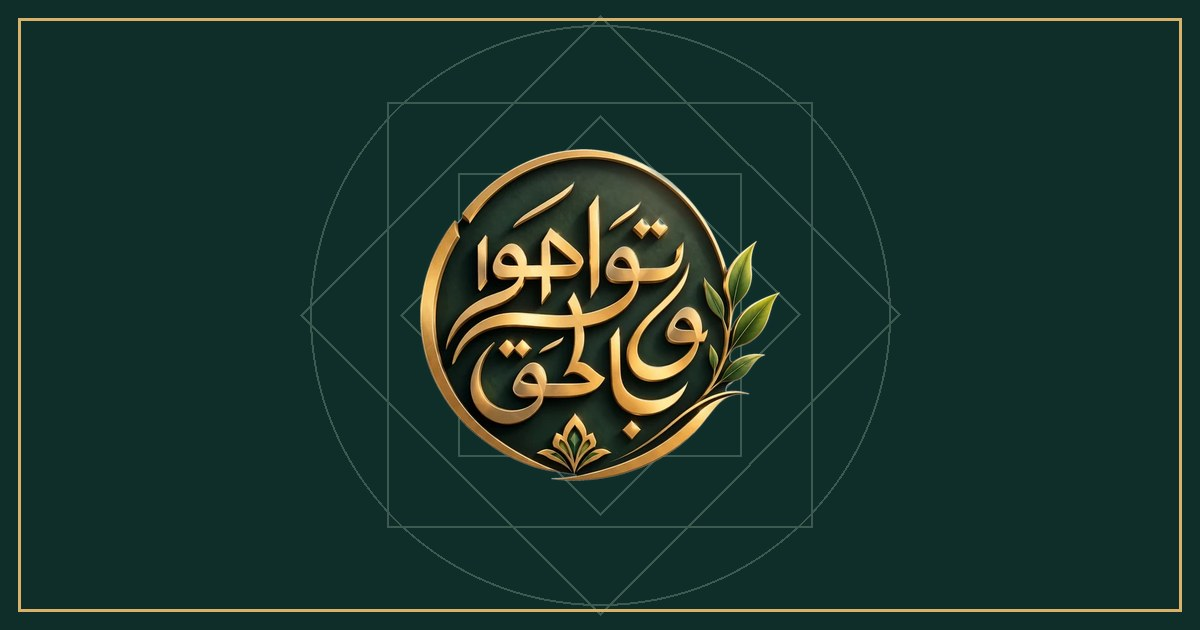
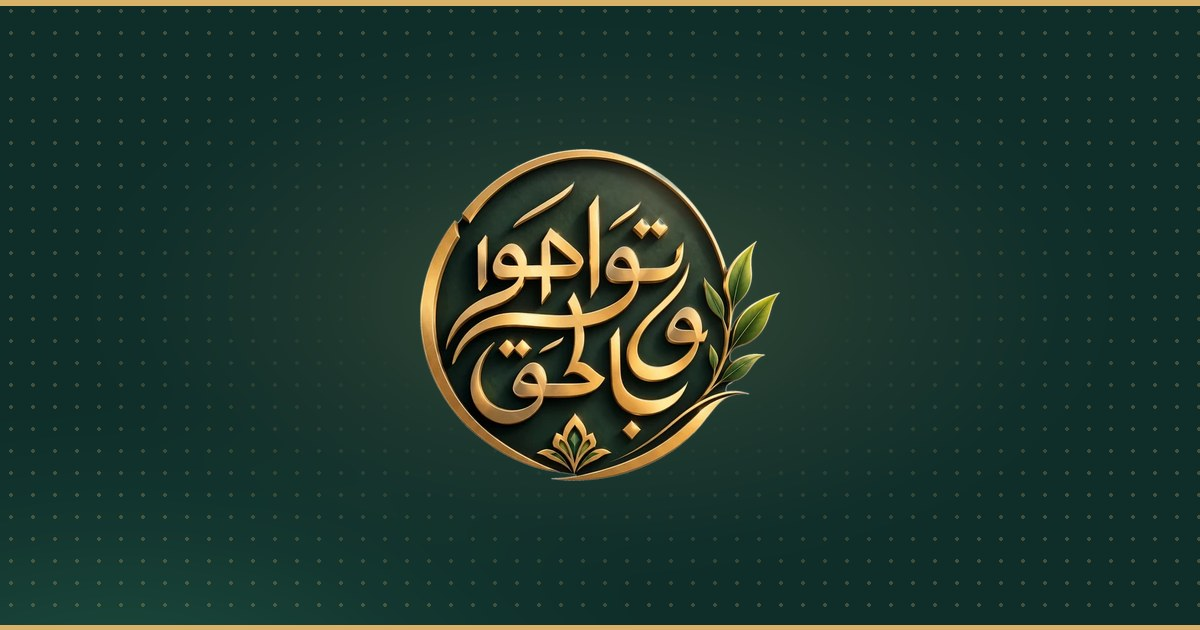
خلفية جديدة هادئة (إضاءة ذهبية ونقاط دقيقة) بدل المربعات المتداخلة: الصفحات والخريطة وشرائح الافتتاح والختام وصورة المشاركة
Claude-Session: https://claude.ai/code/session_015ExV2ovWJzxsuB2ETEdpmL

diff --git a/docs/assets/site.css b/docs/assets/site.css
@@ -59,7 +59,6 @@ html[lang=tr] .ayah { direction: rtl; unicode-bidi: isolate; }
 
 /* ---------- hero ---------- */
 .hero { background: var(--ink); color: #F7F3EA; position: relative; overflow: hidden; }
-.hero .orn { position: absolute; inset-inline-start: -120px; top: -140px; width: 620px; height: 620px; opacity: .22; pointer-events: none; }
 .hero .in { display: grid; grid-template-columns: auto minmax(0, 1fr); gap: clamp(20px, 4vw, 48px); align-items: center; padding: clamp(28px, 5vw, 60px) 0 clamp(34px, 5vw, 64px); position: relative; }
 .hero .in > img { width: clamp(120px, 17vw, 200px); height: auto; filter: drop-shadow(0 16px 36px rgba(0,0,0,.45)); }
 .eb { font-family: var(--uf); font-weight: 600; color: var(--gold); font-size: 16px; margin: 0 0 6px; }
@@ -72,7 +71,6 @@ html[lang=tr] .hero .quote { font-family: 'EB Garamond', Georgia, serif; font-si
 
 /* small page head */
 .phead { background: var(--ink); color: #F7F3EA; padding: clamp(22px, 4vw, 40px) 0 clamp(24px, 4vw, 44px); position: relative; overflow: hidden; }
-.phead .orn { position: absolute; inset-inline-end: -160px; top: -200px; width: 560px; height: 560px; opacity: .18; pointer-events: none; }
 .phead .eb { color: var(--goldl); }
 .phead h1 { margin-bottom: 6px; }
 .phead p { margin: 0; color: var(--mint); max-width: 70ch; }
@@ -257,8 +255,7 @@ dialog .dnote { padding: 10px 16px 14px; color: var(--muted); font-size: 14px; m
 @media print {
   .bar, body > footer, .toc, .endcta, .crumbs, .skip { display: none !important; }
   .phead { background: none; color: #000; padding: 0 0 10px; }
-  .phead .orn { display: none; }
-  .phead p, .phead .eb { color: #444; }
+    .phead p, .phead .eb { color: #444; }
   body { background: #fff; font-size: 12pt; }
   .doc { display: block; }
   .prose { font-size: 12pt; }
@@ -269,3 +266,15 @@ html[lang=ar] ol { list-style-type: arabic-indic; }
 .quiz .review .ans { color: var(--goldl); }
 html[lang=tr] .prose blockquote .ayah { display: block; text-align: right; margin-bottom: 4px; }
 html[lang=tr] :is(.prose, .qa-a, .qq) :is(.ar, .ayah) { display: inline-block; max-width: 100%; }
+
+/* Dark bands (home hero, page headers): soft gold light, fine dots fading out, gold edge line */
+.hero, .phead {
+  --dots: radial-gradient(rgba(217,178,106,.24) 1px, transparent 1.4px) 0 0 / 22px 22px;
+  background:
+    radial-gradient(640px 320px at var(--gx, 85%) 28%, rgba(217,178,106,.16), transparent 70%),
+    radial-gradient(560px 300px at var(--gy, 8%) 118%, rgba(63,143,106,.24), transparent 70%),
+    linear-gradient(var(--fade, to left), rgba(15,46,42,0) 0%, rgba(15,46,42,.6) 42%, #0F2E2A 72%),
+    var(--dots), #0F2E2A;
+  box-shadow: inset var(--edge, -4px) 0 0 var(--goldl);
+}
+html[dir=ltr] .hero, html[dir=ltr] .phead { --gx: 15%; --gy: 92%; --fade: to right; --edge: 4px; }

diff --git a/src/assets/site.css b/src/assets/site.css
@@ -59,7 +59,6 @@ html[lang=tr] .ayah { direction: rtl; unicode-bidi: isolate; }
 
 /* ---------- hero ---------- */
 .hero { background: var(--ink); color: #F7F3EA; position: relative; overflow: hidden; }
-.hero .orn { position: absolute; inset-inline-start: -120px; top: -140px; width: 620px; height: 620px; opacity: .22; pointer-events: none; }
 .hero .in { display: grid; grid-template-columns: auto minmax(0, 1fr); gap: clamp(20px, 4vw, 48px); align-items: center; padding: clamp(28px, 5vw, 60px) 0 clamp(34px, 5vw, 64px); position: relative; }
 .hero .in > img { width: clamp(120px, 17vw, 200px); height: auto; filter: drop-shadow(0 16px 36px rgba(0,0,0,.45)); }
 .eb { font-family: var(--uf); font-weight: 600; color: var(--gold); font-size: 16px; margin: 0 0 6px; }
@@ -72,7 +71,6 @@ html[lang=tr] .hero .quote { font-family: 'EB Garamond', Georgia, serif; font-si
 
 /* small page head */
 .phead { background: var(--ink); color: #F7F3EA; padding: clamp(22px, 4vw, 40px) 0 clamp(24px, 4vw, 44px); position: relative; overflow: hidden; }
-.phead .orn { position: absolute; inset-inline-end: -160px; top: -200px; width: 560px; height: 560px; opacity: .18; pointer-events: none; }
 .phead .eb { color: var(--goldl); }
 .phead h1 { margin-bottom: 6px; }
 .phead p { margin: 0; color: var(--mint); max-width: 70ch; }
@@ -257,8 +255,7 @@ dialog .dnote { padding: 10px 16px 14px; color: var(--muted); font-size: 14px; m
 @media print {
   .bar, body > footer, .toc, .endcta, .crumbs, .skip { display: none !important; }
   .phead { background: none; color: #000; padding: 0 0 10px; }
-  .phead .orn { display: none; }
-  .phead p, .phead .eb { color: #444; }
+    .phead p, .phead .eb { color: #444; }
   body { background: #fff; font-size: 12pt; }
   .doc { display: block; }
   .prose { font-size: 12pt; }
@@ -269,3 +266,15 @@ html[lang=ar] ol { list-style-type: arabic-indic; }
 .quiz .review .ans { color: var(--goldl); }
 html[lang=tr] .prose blockquote .ayah { display: block; text-align: right; margin-bottom: 4px; }
 html[lang=tr] :is(.prose, .qa-a, .qq) :is(.ar, .ayah) { display: inline-block; max-width: 100%; }
+
+/* Dark bands (home hero, page headers): soft gold light, fine dots fading out, gold edge line */
+.hero, .phead {
+  --dots: radial-gradient(rgba(217,178,106,.24) 1px, transparent 1.4px) 0 0 / 22px 22px;
+  background:
+    radial-gradient(640px 320px at var(--gx, 85%) 28%, rgba(217,178,106,.16), transparent 70%),
+    radial-gradient(560px 300px at var(--gy, 8%) 118%, rgba(63,143,106,.24), transparent 70%),
+    linear-gradient(var(--fade, to left), rgba(15,46,42,0) 0%, rgba(15,46,42,.6) 42%, #0F2E2A 72%),
+    var(--dots), #0F2E2A;
+  box-shadow: inset var(--edge, -4px) 0 0 var(--goldl);
+}
+html[dir=ltr] .hero, html[dir=ltr] .phead { --gx: 15%; --gy: 92%; --fade: to right; --edge: 4px; }

diff --git a/docs/map.html b/docs/map.html
@@ -31,7 +31,9 @@ button { font: inherit; cursor: pointer; }
 button:focus-visible { outline: 3px solid var(--goldl); outline-offset: 2px; }
 
 #stage { position: fixed; inset: 0; overflow: hidden; touch-action: none; cursor: grab;
-  background: radial-gradient(ellipse at 55% 45%, #FAF6EC 0%, #F1EADA 60%, #E6DCC6 100%); }
+  background:
+    radial-gradient(ellipse at 55% 45%, #FAF6EC 0%, rgba(241,234,218,.9) 55%, rgba(230,220,198,.55) 100%),
+    radial-gradient(rgba(133,96,28,.18) 1px, transparent 1.4px) 0 0 / 24px 24px, #EEE6D4; }
 #stage.drag { cursor: grabbing; }
 #world { position: absolute; left: 0; top: 0; width: 8000px; height: 5000px; transform-origin: 0 0; will-change: transform; }
 #links { position: absolute; left: 0; top: 0; overflow: visible; pointer-events: none; }
@@ -171,6 +173,7 @@ button:focus-visible { outline: 3px solid var(--goldl); outline-offset: 2px; }
 .ov .lang { background: transparent; font-size: 16px; }
 
 /* site integration + phone fixes */
+html[lang=ar] body { word-spacing: .14em; }
 #brand { pointer-events: auto; text-decoration: none; }
 #brand:hover span { color: var(--ink); }
 #bar .m-only { display: none; }
@@ -190,7 +193,7 @@ button:focus-visible { outline: 3px solid var(--goldl); outline-offset: 2px; }
 <body>
 <div id="stage">
   <div id="world">
-    <svg id="orn" width="1400" height="1400" viewBox="0 0 720 720" aria-hidden="true"><g fill="none" stroke="#85601C" stroke-width="1.4" opacity="0.16"><rect x="144" y="144" width="432" height="432"/><rect x="144" y="144" width="432" height="432" transform="rotate(45 360 360)"/><rect x="216" y="216" width="288" height="288"/><rect x="216" y="216" width="288" height="288" transform="rotate(45 360 360)"/><circle cx="360" cy="360" r="320"/><circle cx="360" cy="360" r="108"/></g></svg>
+    <div id="orn" aria-hidden="true"></div>
     <svg id="links" width="8000" height="5000" aria-hidden="true"></svg>
   </div>
 </div>

diff --git a/docs/tr/map.html b/docs/tr/map.html
@@ -31,7 +31,9 @@ button { font: inherit; cursor: pointer; }
 button:focus-visible { outline: 3px solid var(--goldl); outline-offset: 2px; }
 
 #stage { position: fixed; inset: 0; overflow: hidden; touch-action: none; cursor: grab;
-  background: radial-gradient(ellipse at 55% 45%, #FAF6EC 0%, #F1EADA 60%, #E6DCC6 100%); }
+  background:
+    radial-gradient(ellipse at 55% 45%, #FAF6EC 0%, rgba(241,234,218,.9) 55%, rgba(230,220,198,.55) 100%),
+    radial-gradient(rgba(133,96,28,.18) 1px, transparent 1.4px) 0 0 / 24px 24px, #EEE6D4; }
 #stage.drag { cursor: grabbing; }
 #world { position: absolute; left: 0; top: 0; width: 8000px; height: 5000px; transform-origin: 0 0; will-change: transform; }
 #links { position: absolute; left: 0; top: 0; overflow: visible; pointer-events: none; }
@@ -173,6 +175,7 @@ button:focus-visible { outline: 3px solid var(--goldl); outline-offset: 2px; }
 .ov .lang { background: transparent; font-size: 16px; }
 
 /* site integration + phone fixes */
+html[lang=ar] body { word-spacing: .14em; }
 #brand { pointer-events: auto; text-decoration: none; }
 #brand:hover span { color: var(--ink); }
 #bar .m-only { display: none; }
@@ -192,7 +195,7 @@ button:focus-visible { outline: 3px solid var(--goldl); outline-offset: 2px; }
 <body>
 <div id="stage">
   <div id="world">
-    <svg id="orn" width="1400" height="1400" viewBox="0 0 720 720" aria-hidden="true"><g fill="none" stroke="#85601C" stroke-width="1.4" opacity="0.16"><rect x="144" y="144" width="432" height="432"/><rect x="144" y="144" width="432" height="432" transform="rotate(45 360 360)"/><rect x="216" y="216" width="288" height="288"/><rect x="216" y="216" width="288" height="288" transform="rotate(45 360 360)"/><circle cx="360" cy="360" r="320"/><circle cx="360" cy="360" r="108"/></g></svg>
+    <div id="orn" aria-hidden="true"></div>
     <svg id="links" width="8000" height="5000" aria-hidden="true"></svg>
   </div>
 </div>

diff --git a/docs/l2/slides.html b/docs/l2/slides.html
@@ -32,7 +32,6 @@
   <div class="sv-stage" id="svStage">
     <div class="sv-canvas" id="svCanvas">
 <section id="cover" class="dark mid" data-transition="fade">
-<svg class="star" viewBox="0 0 720 720" width="720" height="720" aria-label="زخرفة نجمة ثمانية"><g fill="none" stroke="#D9B26A" stroke-width="2" opacity="0.45"><rect x="144" y="144" width="432" height="432"/><rect x="144" y="144" width="432" height="432" transform="rotate(45 360 360)"/><rect x="216" y="216" width="288" height="288"/><rect x="216" y="216" width="288" height="288" transform="rotate(45 360 360)"/><circle cx="360" cy="360" r="320"/><circle cx="360" cy="360" r="108"/></g></svg>
 <div class="cover-body">
 <img class="logo" src="../media/logo.webp" alt="شعار وتواصوا بالحق">
 <p class="eb">صفة الكفر بالطاغوت · النقطة الثانية</p>
@@ -557,7 +556,6 @@
 
 </section>
 <section id="khatima" class="dark mid">
-<svg class="star" viewBox="0 0 720 720" width="720" height="720" aria-label="زخرفة نجمة ثمانية"><g fill="none" stroke="#D9B26A" stroke-width="2" opacity="0.45"><rect x="144" y="144" width="432" height="432"/><rect x="144" y="144" width="432" height="432" transform="rotate(45 360 360)"/><rect x="216" y="216" width="288" height="288"/><rect x="216" y="216" width="288" height="288" transform="rotate(45 360 360)"/><circle cx="360" cy="360" r="320"/><circle cx="360" cy="360" r="108"/></g></svg>
 <div class="cover-body">
 <img class="logo" src="../media/logo.webp" alt="شعار وتواصوا بالحق">
 <p class="eb">خاتمة الدرس</p>

diff --git a/docs/l1/slides.html b/docs/l1/slides.html
@@ -32,7 +32,6 @@
   <div class="sv-stage" id="svStage">
     <div class="sv-canvas" id="svCanvas">
 <section id="cover" class="dark mid" data-transition="fade">
-<svg class="star" viewBox="0 0 720 720" width="720" height="720" aria-label="زخرفة نجمة ثمانية"><g fill="none" stroke="#D9B26A" stroke-width="2" opacity="0.45"><rect x="144" y="144" width="432" height="432"/><rect x="144" y="144" width="432" height="432" transform="rotate(45 360 360)"/><rect x="216" y="216" width="288" height="288"/><rect x="216" y="216" width="288" height="288" transform="rotate(45 360 360)"/><circle cx="360" cy="360" r="320"/><circle cx="360" cy="360" r="108"/></g></svg>
 <div class="cover-body">
 <img class="logo" src="../media/logo.webp" alt="شعار وتواصوا بالحق">
 <p class="eb">صفة الكفر بالطاغوت · النقطة الأولى</p>
@@ -505,7 +504,6 @@
 
 </section>
 <section id="khatima" class="dark mid">
-<svg class="star" viewBox="0 0 720 720" width="720" height="720" aria-label="زخرفة نجمة ثمانية"><g fill="none" stroke="#D9B26A" stroke-width="2" opacity="0.45"><rect x="144" y="144" width="432" height="432"/><rect x="144" y="144" width="432" height="432" transform="rotate(45 360 360)"/><rect x="216" y="216" width="288" height="288"/><rect x="216" y="216" width="288" height="288" transform="rotate(45 360 360)"/><circle cx="360" cy="360" r="320"/><circle cx="360" cy="360" r="108"/></g></svg>
 <div class="cover-body">
 <img class="logo" src="../media/logo.webp" alt="شعار وتواصوا بالحق">
 <p class="eb">خاتمة الدرس</p>

diff --git a/docs/tr/l1/slides.html b/docs/tr/l1/slides.html
@@ -32,7 +32,6 @@
   <div class="sv-stage" id="svStage">
     <div class="sv-canvas" id="svCanvas">
 <section id="cover" class="dark mid" data-transition="fade">
-<svg class="star" viewBox="0 0 720 720" width="720" height="720" aria-label="Sekiz köşeli yıldız süsü"><g fill="none" stroke="#D9B26A" stroke-width="2" opacity="0.45"><rect x="144" y="144" width="432" height="432"/><rect x="144" y="144" width="432" height="432" transform="rotate(45 360 360)"/><rect x="216" y="216" width="288" height="288"/><rect x="216" y="216" width="288" height="288" transform="rotate(45 360 360)"/><circle cx="360" cy="360" r="320"/><circle cx="360" cy="360" r="108"/></g></svg>
 <div class="cover-body">
 <img class="logo" src="../../media/logo.webp" alt="Ve Tevâsav bi'l-Hak logosu">
 <p class="eb">Tâğutu inkârın keyfiyeti · Birinci husus</p>
@@ -514,7 +513,6 @@
 
 </section>
 <section id="khatima" class="dark mid">
-<svg class="star" viewBox="0 0 720 720" width="720" height="720" aria-label="Sekiz köşeli yıldız süsü"><g fill="none" stroke="#D9B26A" stroke-width="2" opacity="0.45"><rect x="144" y="144" width="432" height="432"/><rect x="144" y="144" width="432" height="432" transform="rotate(45 360 360)"/><rect x="216" y="216" width="288" height="288"/><rect x="216" y="216" width="288" height="288" transform="rotate(45 360 360)"/><circle cx="360" cy="360" r="320"/><circle cx="360" cy="360" r="108"/></g></svg>
 <div class="cover-body">
 <img class="logo" src="../../media/logo.webp" alt="Ve Tevâsav bi'l-Hak logosu">
 <p class="eb">Dersin sonu</p>

diff --git a/docs/tr/l2/slides.html b/docs/tr/l2/slides.html
@@ -32,7 +32,6 @@
   <div class="sv-stage" id="svStage">
     <div class="sv-canvas" id="svCanvas">
 <section id="cover" class="dark mid" data-transition="fade">
-<svg class="star" viewBox="0 0 720 720" width="720" height="720" aria-label="Sekiz köşeli yıldız süsü"><g fill="none" stroke="#D9B26A" stroke-width="2" opacity="0.45"><rect x="144" y="144" width="432" height="432"/><rect x="144" y="144" width="432" height="432" transform="rotate(45 360 360)"/><rect x="216" y="216" width="288" height="288"/><rect x="216" y="216" width="288" height="288" transform="rotate(45 360 360)"/><circle cx="360" cy="360" r="320"/><circle cx="360" cy="360" r="108"/></g></svg>
 <div class="cover-body">
 <img class="logo" src="../../media/logo.webp" alt="Ve Tevâsav bi'l-Hak logosu">
 <p class="eb">Tâğutu inkârın keyfiyeti · İkinci husus</p>
@@ -554,7 +553,6 @@
 
 </section>
 <section id="khatima" class="dark mid">
-<svg class="star" viewBox="0 0 720 720" width="720" height="720" aria-label="Sekiz köşeli yıldız süsü"><g fill="none" stroke="#D9B26A" stroke-width="2" opacity="0.45"><rect x="144" y="144" width="432" height="432"/><rect x="144" y="144" width="432" height="432" transform="rotate(45 360 360)"/><rect x="216" y="216" width="288" height="288"/><rect x="216" y="216" width="288" height="288" transform="rotate(45 360 360)"/><circle cx="360" cy="360" r="320"/><circle cx="360" cy="360" r="108"/></g></svg>
 <div class="cover-body">
 <img class="logo" src="../../media/logo.webp" alt="Ve Tevâsav bi'l-Hak logosu">
 <p class="eb">Dersin sonu</p>

diff --git a/src/maps/map-ar.html b/src/maps/map-ar.html
@@ -19,7 +19,9 @@ button { font: inherit; cursor: pointer; }
 button:focus-visible { outline: 3px solid var(--goldl); outline-offset: 2px; }
 
 #stage { position: fixed; inset: 0; overflow: hidden; touch-action: none; cursor: grab;
-  background: radial-gradient(ellipse at 55% 45%, #FAF6EC 0%, #F1EADA 60%, #E6DCC6 100%); }
+  background:
+    radial-gradient(ellipse at 55% 45%, #FAF6EC 0%, rgba(241,234,218,.9) 55%, rgba(230,220,198,.55) 100%),
+    radial-gradient(rgba(133,96,28,.18) 1px, transparent 1.4px) 0 0 / 24px 24px, #EEE6D4; }
 #stage.drag { cursor: grabbing; }
 #world { position: absolute; left: 0; top: 0; width: 8000px; height: 5000px; transform-origin: 0 0; will-change: transform; }
 #links { position: absolute; left: 0; top: 0; overflow: visible; pointer-events: none; }
@@ -162,7 +164,7 @@ button:focus-visible { outline: 3px solid var(--goldl); outline-offset: 2px; }
 <body>
 <div id="stage">
   <div id="world">
-    <svg id="orn" width="1400" height="1400" viewBox="0 0 720 720" aria-hidden="true"><g fill="none" stroke="#85601C" stroke-width="1.4" opacity="0.16"><rect x="144" y="144" width="432" height="432"/><rect x="144" y="144" width="432" height="432" transform="rotate(45 360 360)"/><rect x="216" y="216" width="288" height="288"/><rect x="216" y="216" width="288" height="288" transform="rotate(45 360 360)"/><circle cx="360" cy="360" r="320"/><circle cx="360" cy="360" r="108"/></g></svg>
+    <div id="orn" aria-hidden="true"></div>
     <svg id="links" width="8000" height="5000" aria-hidden="true"></svg>
   </div>
 </div>

diff --git a/src/maps/map-tr.html b/src/maps/map-tr.html
@@ -19,7 +19,9 @@ button { font: inherit; cursor: pointer; }
 button:focus-visible { outline: 3px solid var(--goldl); outline-offset: 2px; }
 
 #stage { position: fixed; inset: 0; overflow: hidden; touch-action: none; cursor: grab;
-  background: radial-gradient(ellipse at 55% 45%, #FAF6EC 0%, #F1EADA 60%, #E6DCC6 100%); }
+  background:
+    radial-gradient(ellipse at 55% 45%, #FAF6EC 0%, rgba(241,234,218,.9) 55%, rgba(230,220,198,.55) 100%),
+    radial-gradient(rgba(133,96,28,.18) 1px, transparent 1.4px) 0 0 / 24px 24px, #EEE6D4; }
 #stage.drag { cursor: grabbing; }
 #world { position: absolute; left: 0; top: 0; width: 8000px; height: 5000px; transform-origin: 0 0; will-change: transform; }
 #links { position: absolute; left: 0; top: 0; overflow: visible; pointer-events: none; }
@@ -164,7 +166,7 @@ button:focus-visible { outline: 3px solid var(--goldl); outline-offset: 2px; }
 <body>
 <div id="stage">
   <div id="world">
-    <svg id="orn" width="1400" height="1400" viewBox="0 0 720 720" aria-hidden="true"><g fill="none" stroke="#85601C" stroke-width="1.4" opacity="0.16"><rect x="144" y="144" width="432" height="432"/><rect x="144" y="144" width="432" height="432" transform="rotate(45 360 360)"/><rect x="216" y="216" width="288" height="288"/><rect x="216" y="216" width="288" height="288" transform="rotate(45 360 360)"/><circle cx="360" cy="360" r="320"/><circle cx="360" cy="360" r="108"/></g></svg>
+    <div id="orn" aria-hidden="true"></div>
     <svg id="links" width="8000" height="5000" aria-hidden="true"></svg>
   </div>
 </div>

diff --git a/docs/index.html b/docs/index.html
@@ -29,7 +29,7 @@
   <nav aria-label="الرئيسية"><a class="hide-s" href="index.html">الرئيسية</a><a class="hide-s" href="index.html#lessons">الدروس</a><a class="lang" lang="tr" hreflang="tr" href="tr/index.html">Türkçe</a></nav>
 </div></header>
 <main id="main">
-<section class="hero"><svg class="orn" viewBox="0 0 720 720" aria-hidden="true"><g fill="none" stroke="#D9B26A" stroke-width="1.6"><rect x="144" y="144" width="432" height="432"/><rect x="144" y="144" width="432" height="432" transform="rotate(45 360 360)"/><rect x="216" y="216" width="288" height="288"/><rect x="216" y="216" width="288" height="288" transform="rotate(45 360 360)"/><circle cx="360" cy="360" r="320"/><circle cx="360" cy="360" r="108"/></g></svg><div class="wrap"><div class="in">
+<section class="hero"><div class="wrap"><div class="in">
   <img src="media/logo.webp" alt="وتواصوا بالحق">
   <div><p class="eb">وتواصوا بالحق · دروس شرعية بإعداد جديد</p><h1>سلسلة صفة الكفر بالطاغوت</h1><p class="lead">خمسة دروس في قول الشيخ محمد بن عبد الوهاب رحمه الله في صفة الكفر بالطاغوت. لكل درس: فيديو، ودرس مكتوب، وعرض شرائح، وخريطة تفاعلية، وأسئلة وأجوبة، واختبار لقياس الفهم.</p>
   <p class="quote">«أن تعتقد بطلان عبادة غير الله، وتتركها، وتبغضها، وتكفّر أهلها، وتعاديهم»</p></div>

diff --git a/docs/tr/index.html b/docs/tr/index.html
@@ -29,7 +29,7 @@
   <nav aria-label="Ana sayfa"><a class="hide-s" href="index.html">Ana sayfa</a><a class="hide-s" href="index.html#lessons">Dersler</a><a class="lang" lang="ar" hreflang="ar" href="../index.html">العربية</a></nav>
 </div></header>
 <main id="main">
-<section class="hero"><svg class="orn" viewBox="0 0 720 720" aria-hidden="true"><g fill="none" stroke="#D9B26A" stroke-width="1.6"><rect x="144" y="144" width="432" height="432"/><rect x="144" y="144" width="432" height="432" transform="rotate(45 360 360)"/><rect x="216" y="216" width="288" height="288"/><rect x="216" y="216" width="288" height="288" transform="rotate(45 360 360)"/><circle cx="360" cy="360" r="320"/><circle cx="360" cy="360" r="108"/></g></svg><div class="wrap"><div class="in">
+<section class="hero"><div class="wrap"><div class="in">
   <img src="../media/logo.webp" alt="Ve Tevâsav bi’l-Hak">
   <div><p class="eb">Ve Tevâsav bi’l-Hak · Yeni bir hazırlıkla şer’î dersler</p><h1>Tâğutu İnkârın Keyfiyeti Serisi</h1><p class="lead">Şeyh Muhammed b. Abdülvehhab’ın (rahimehullah) tâğutu inkârın keyfiyeti hakkındaki sözü üzerine beş ders. Her ders için: video, yazılı ders, sunum, etkileşimli harita, soru-cevap ve anladığını ölçen bir test.</p>
   <p class="quote">«Allah’tan başkasına yapılan ibadetin bâtıl olduğuna inanman, onu terk etmen, ondan buğz etmen, ehlini tekfir etmen ve onlara düşmanlık etmendir.»</p></div>
